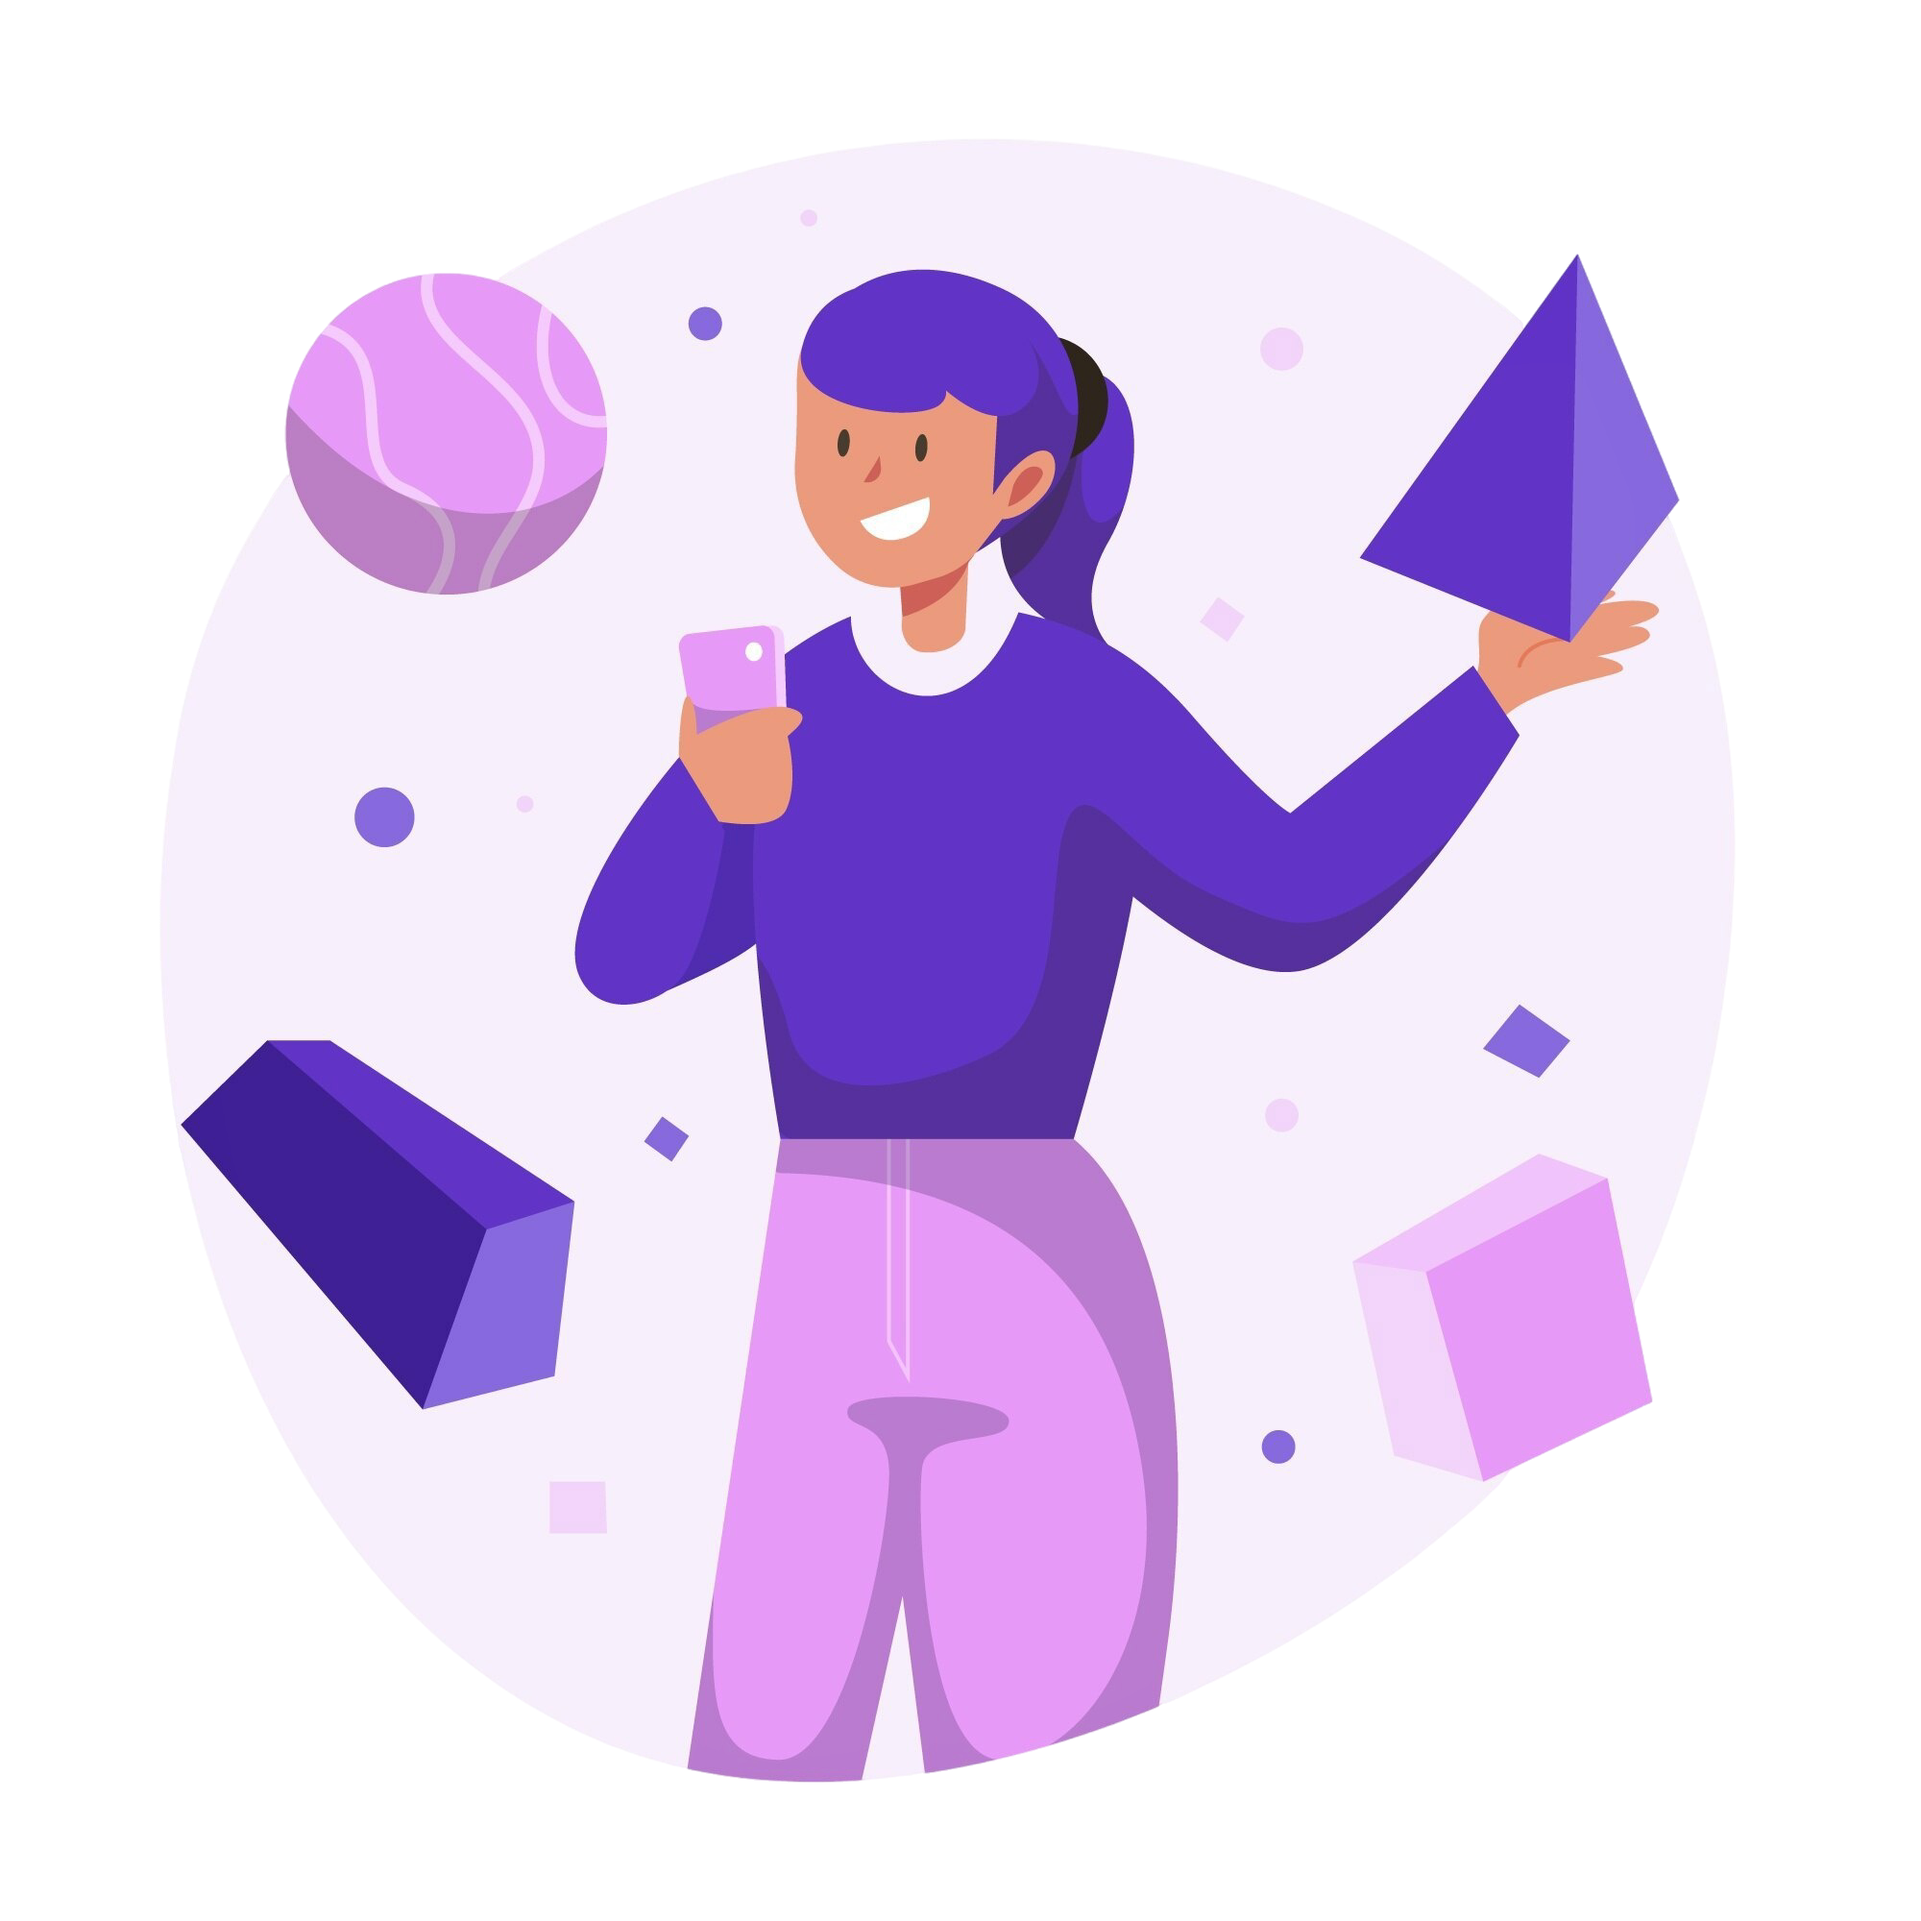
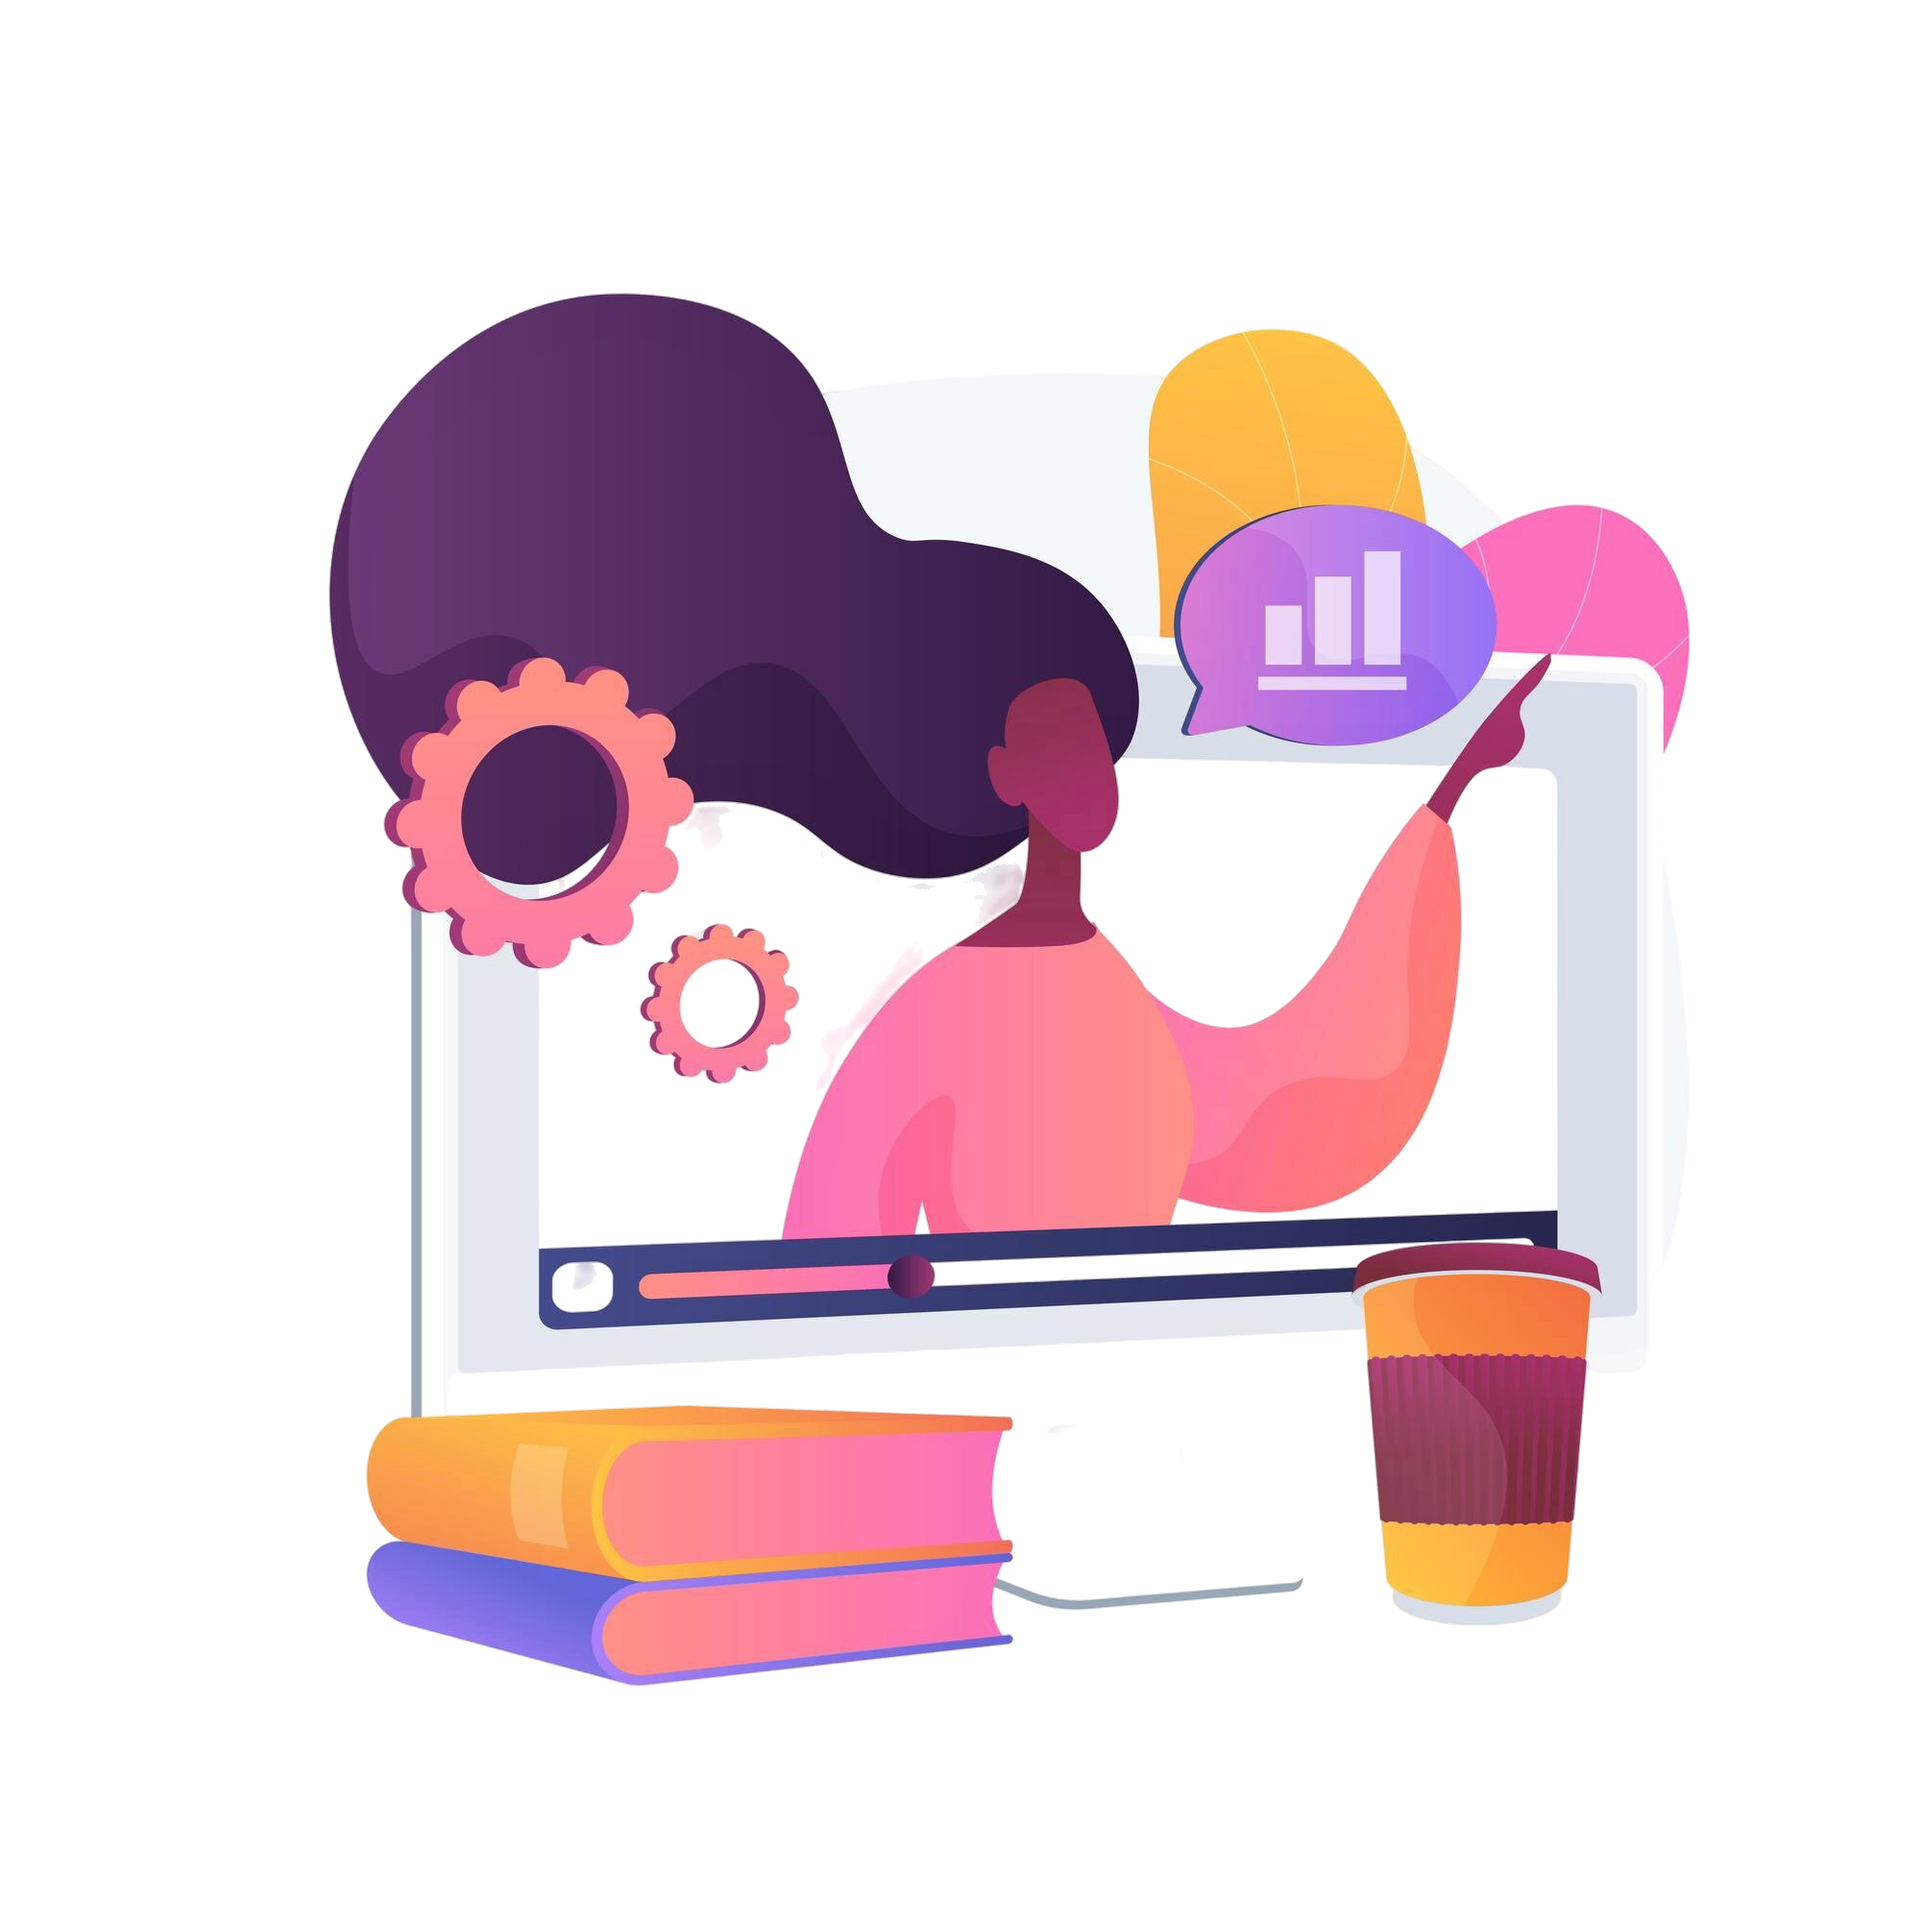
atualizando o html

diff --git a/portifolio-pessoal/bootstrap/index.html b/portifolio-pessoal/bootstrap/index.html
@@ -42,13 +42,10 @@
                             <a href="#habilidades" class="nav-link">Habilidades</a>
                         </li>
                         <li>
-                            <a href="#skills" class="nav-link">Skills</a>
+                            <a href="#skills" class="nav-link">Tecnologias</a>
                         </li>
                         <li>
                             <a href="#projects" class="nav-link">Projetos</a>
-                        </li>
-                        <li>
-                            <a href="#interesses" class="nav-link">Interesses</a>
                         </li>
                     </ul>
                 </div>
@@ -134,7 +131,7 @@
             style="background-image:url(assets/img/bg-effect-1.png); background-repeat: no-repeat; background-size: cover;">
             <div class="container">
                 <div class="section-heading">
-                    <h3 class="h2 mb-3 text-dark fw-semibold">Minhas Habilidades</h3>
+                    <h3 class="h2 mb-3 text-dark fw-semibold">HABILIDADES</h3>
                 </div>
                 <div class="row gy-4">
                     <div class="col-md-6">
@@ -186,7 +183,7 @@
                 <div class="row gy-5">
                     <div class="col-lg-6">
                         <div class="section-heading text-start">
-                            <h3>MINHAS SKILLS</h3>
+                            <h3 class="h2 mb-3 text-dark fw-semibold">FERRAMENTAS & TECNOLOGIAS</h3>
                         </div>
                         <div class="skill-box">
                             <div class="row g-3">
@@ -230,6 +227,35 @@
                                         <h6>TAILWIND</h6>
                                     </div>
                                 </div>
+                                <div class="col-6 col-md-4 col-lg-6">
+                                    <div class="feature-box feature-box-small bg-4">
+                                        <div class="icon">
+                                            <i class="bx bxl-react"></i>
+                                        </div>
+                                        <h6>REACT</h6>
+                                    </div>
+                                </div>
+                            </div>
+                        </div>
+                    </div>
+                    <div class="col-lg-6 text-center">
+                        <img src="assets/img/skills.png" alt="Imagem com as skills">
+                    </div>
+                </div>
+            </div>
+        </section>
+
+        <!--Seção de Projetos-->
+        <section id="portfolio" class="section bg-gray">
+            <div class="container">
+                <div class="section-heading">
+                    <h3 class="h2 mb-3 text-dark fw-semibold">PROJETOS</h3>
+                </div>
+                <div class="portfolio-box">
+                    <div class="row gx-3 gy-4 pb-3 mb-5 pb-lg-3 mb-lg-3 justify-content-around align-items-center">
+                        <div class="col-md-6 col-lg-5">
+                            <div class="portfolio-img">
+                                <img src="" alt="">
                             </div>
                         </div>
                     </div>
